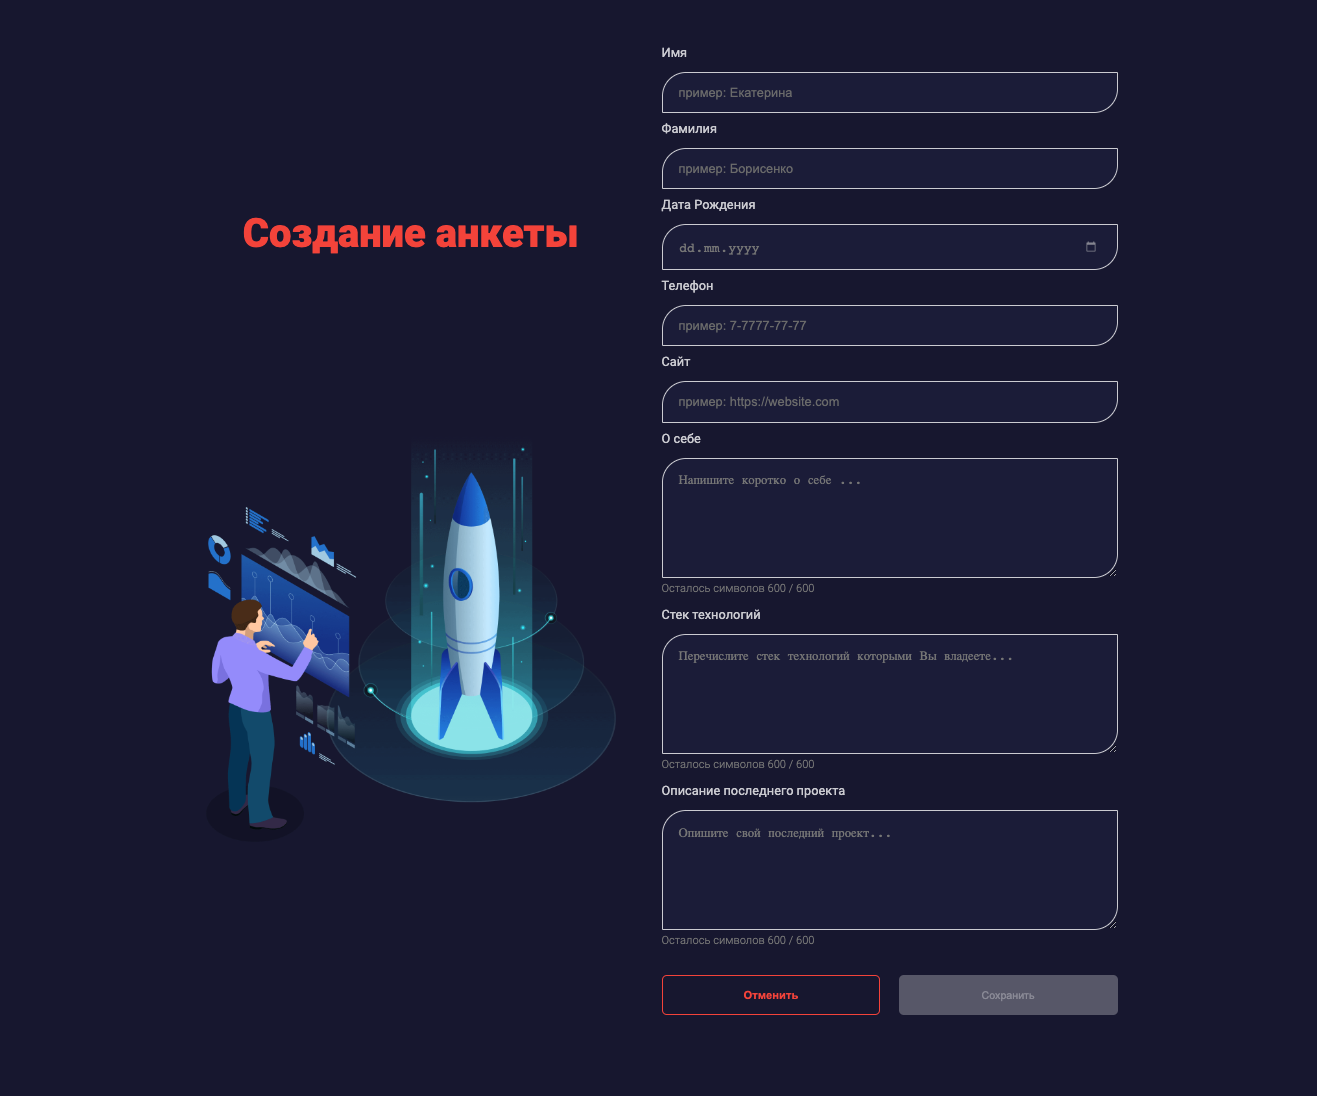
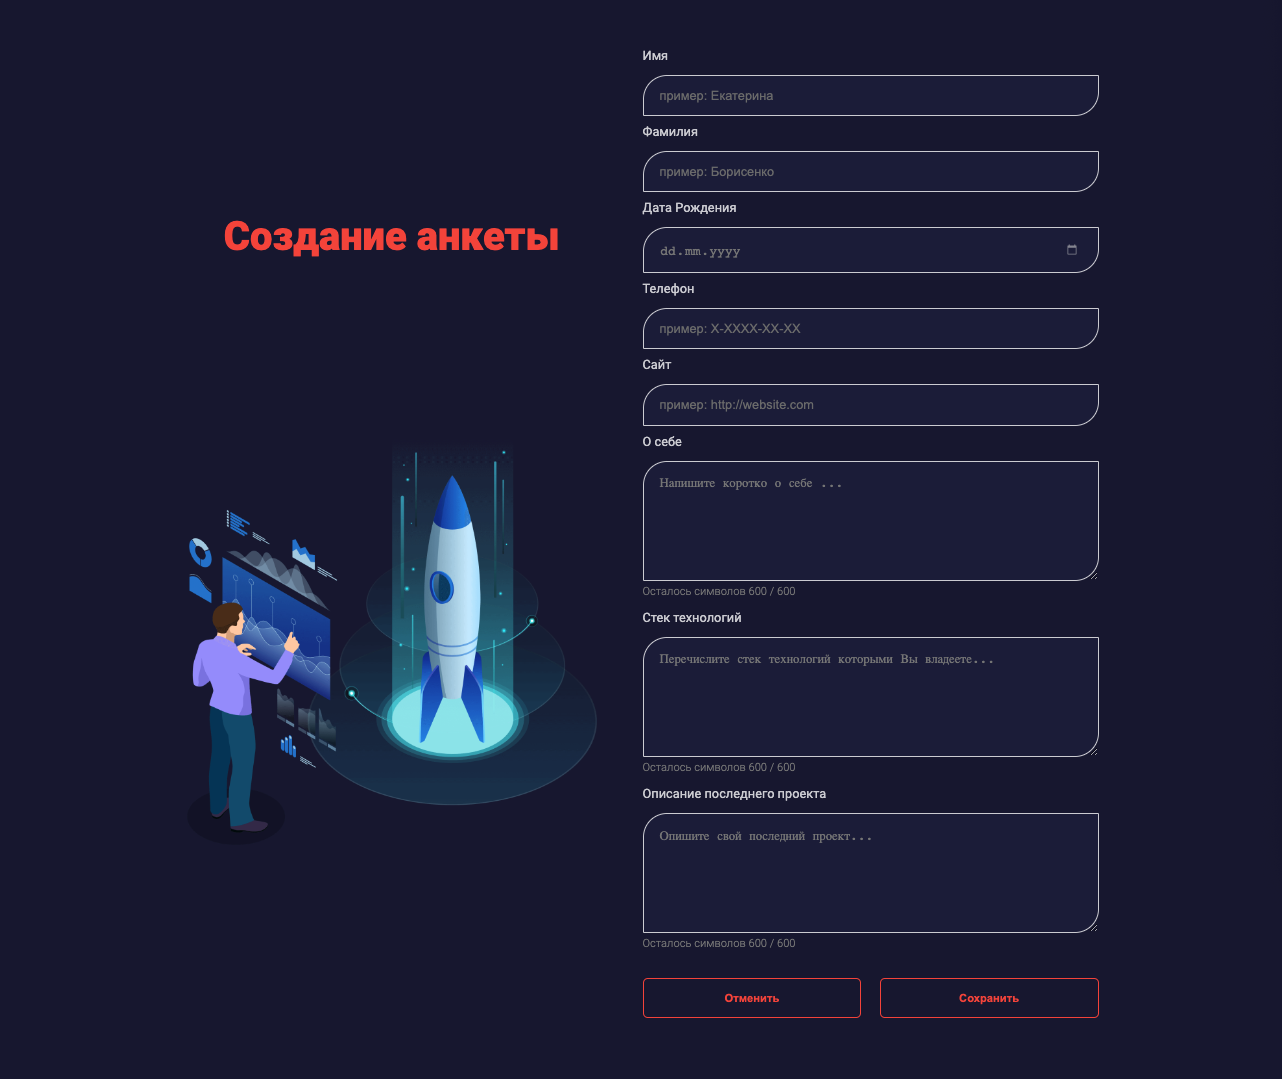
Fixed form bug

diff --git a/src/components/Form/Form.jsx b/src/components/Form/Form.jsx
@@ -172,7 +172,6 @@ class Form extends Component {
       });
     }
   };
-  // this.reset()
 
   reset = () => {
     this.setState({ ...INITIAL_STATE });
@@ -193,7 +192,7 @@ class Form extends Component {
           </div>
         </div>
 
-        <form className={s.form} onSubmit={this.handleSubmit}>
+        <form className={s.form}>
           <Input
             label="Имя"
             name="name"
@@ -275,7 +274,11 @@ class Form extends Component {
 
           <div className={s.buttonWrapper}>
             <Button text="Отменить" type="button" onClick={this.reset} />
-            <Button text="Сохранить" type="submit" />
+            <Button
+              text="Сохранить"
+              type="button"
+              onClick={this.handleSubmit}
+            />
           </div>
         </form>
       </div>

diff --git a/src/components/Form/TextArea/TextArea.module.css b/src/components/Form/TextArea/TextArea.module.css
@@ -31,7 +31,7 @@ textarea::placeholder {
 }
 
 .message {
-  margin: 5px 0;
+  margin: 5px 0 0 0;
   color: #808080;
   text-align: left;
   font-size: 14px;

diff --git a/src/components/common/ErrorMsg/ErrorMsg.module.css b/src/components/common/ErrorMsg/ErrorMsg.module.css
@@ -1,6 +1,6 @@
 .errorMsg {
   text-align: left;
   font-size: 12px;
-  padding-top: 3px;
+  margin-top: 3px;
   color: red;
 }
